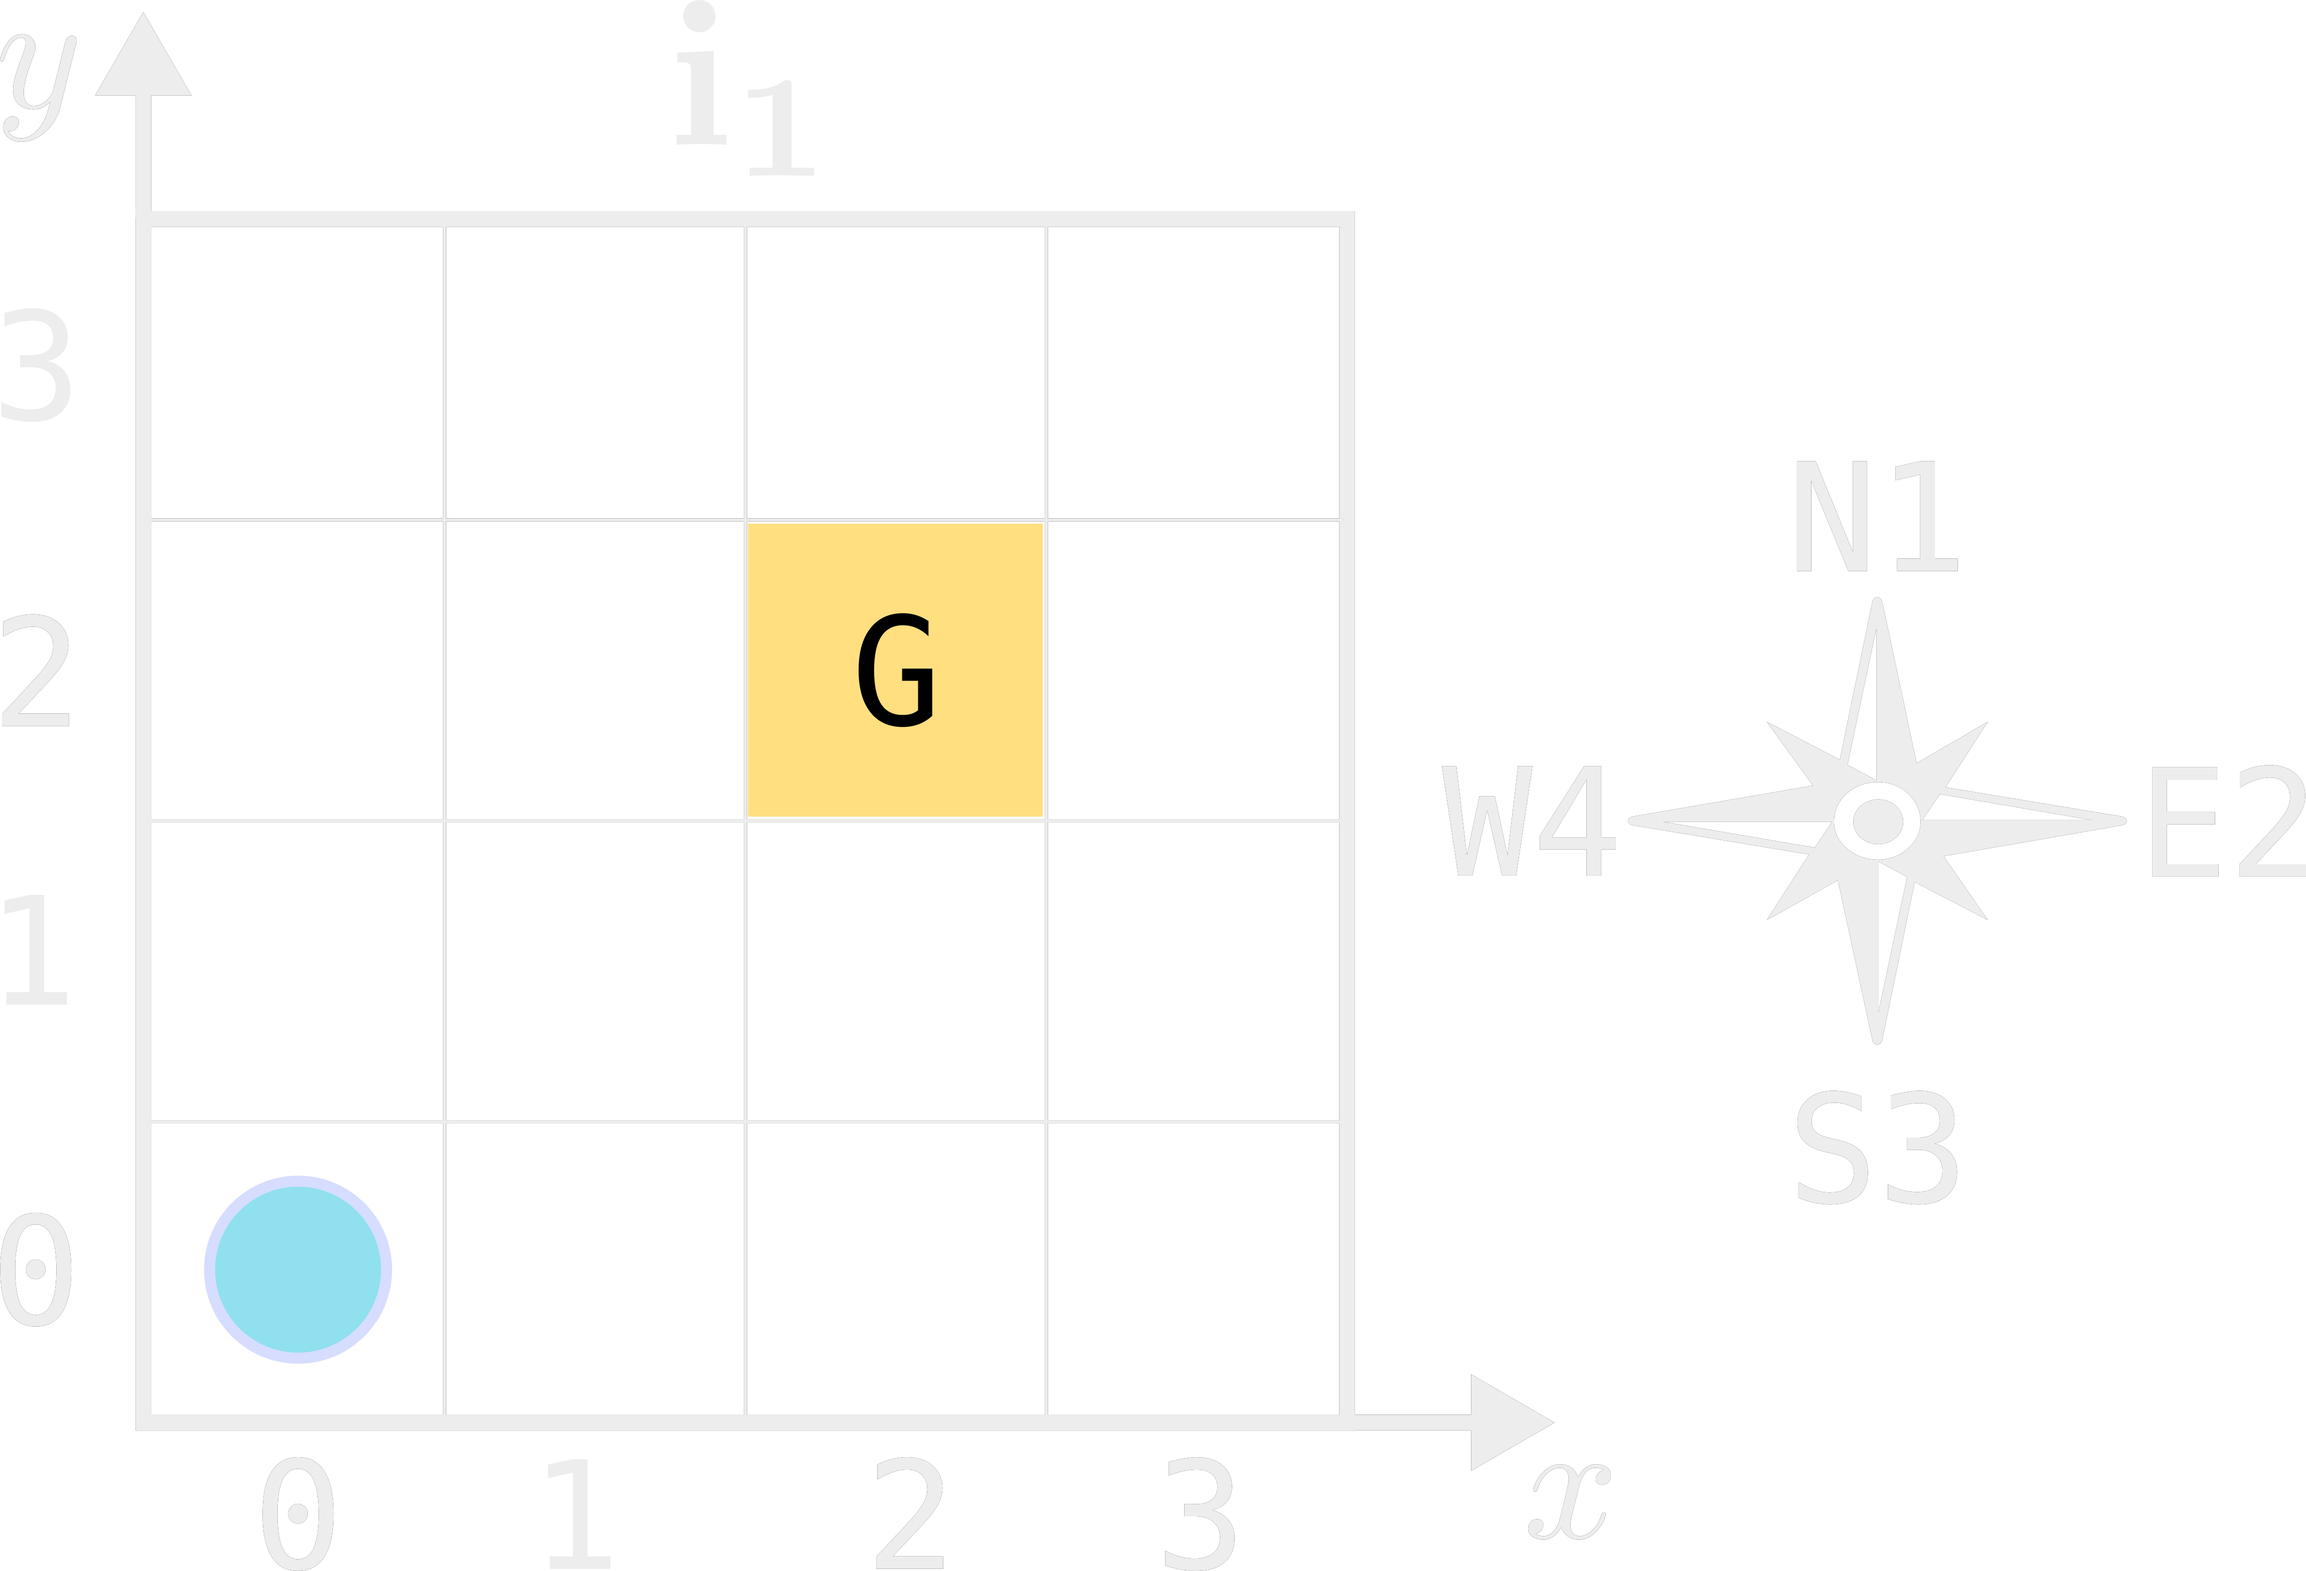
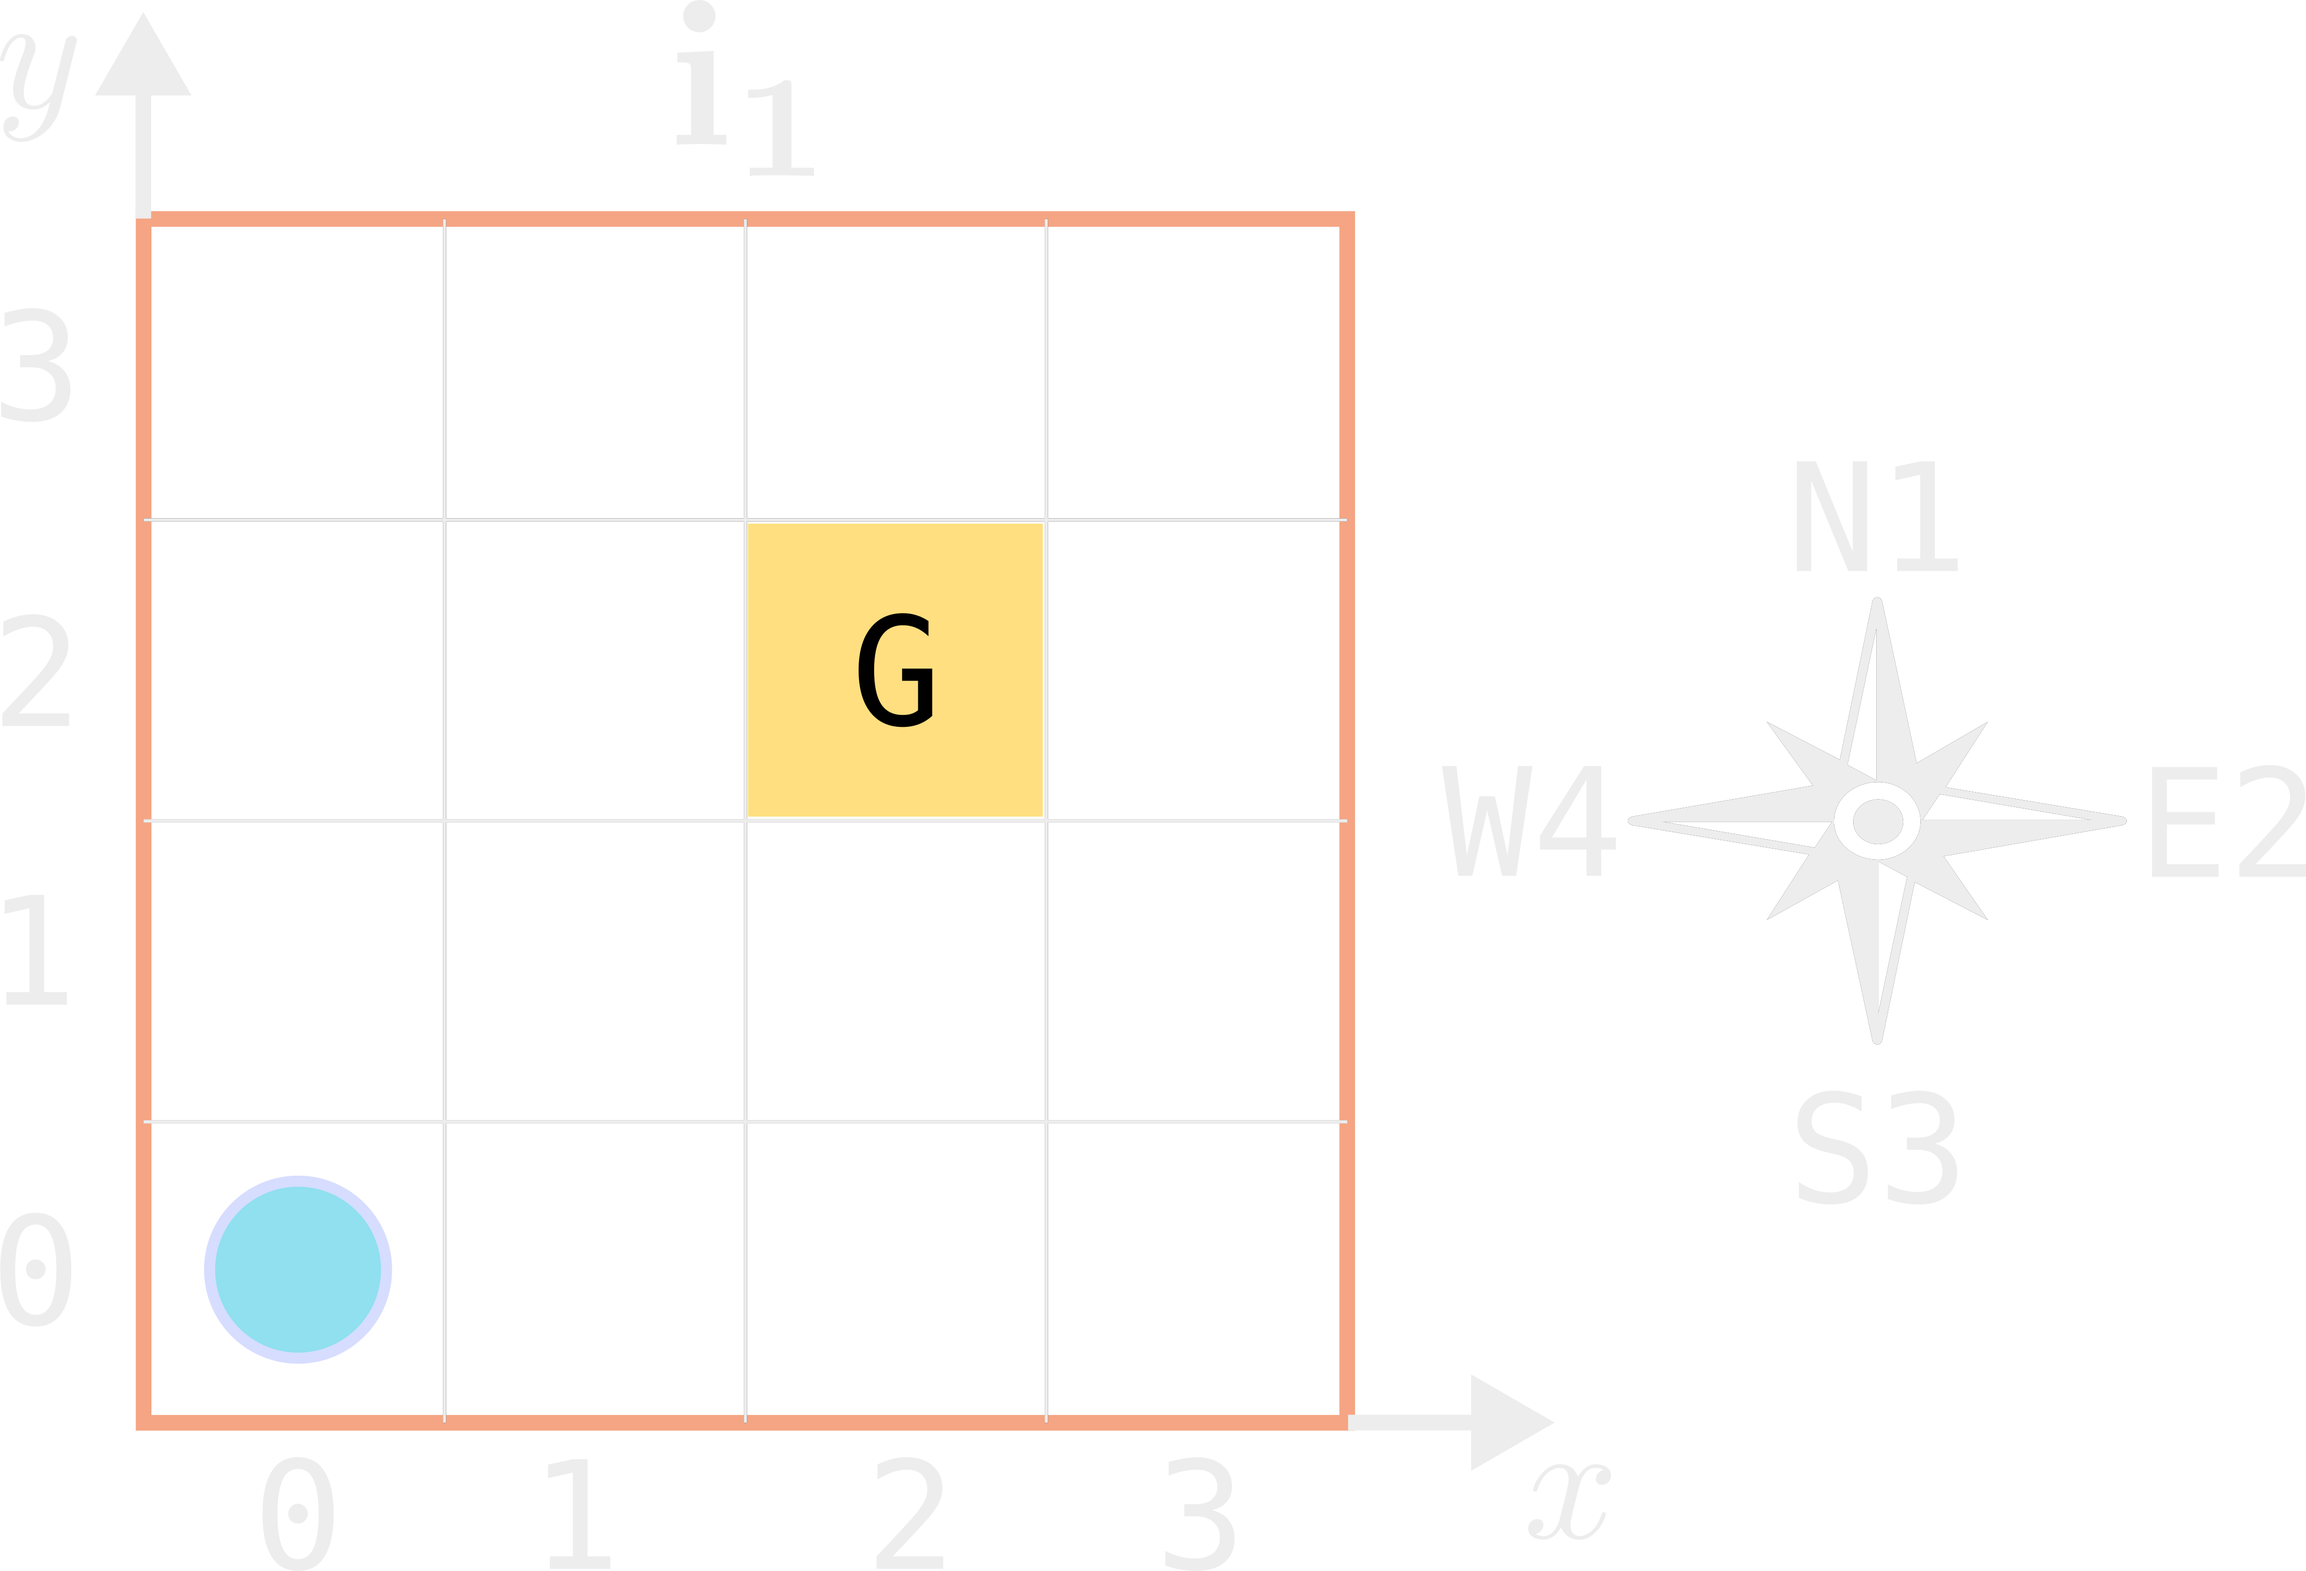
updated the documentation

Changed region(s): [[0.0311, 0.1239, 0.5909, 0.9291]]

diff --git a/docs/source/assignments/rwaIV.rst b/docs/source/assignments/rwaIV.rst
@@ -705,11 +705,11 @@ Demonstration
         .. raw:: html
 
             <div style="display:flex; justify-content:center; align-items:center; gap:1rem;">
-                <img src="../_static/rwa4/iterations.png"
+                <img src="../_static/rwa4/iterations_light.png"
                     alt="Demo"
                     class="only-light"
                     style="width:100%; border-radius:8px;">
-                <img src="../_static/rwa4/iterations.png"
+                <img src="../_static/rwa4/iterations_dark.png"
                     alt="Demo"
                     class="only-dark"
                     style="width:100%; border-radius:8px;">
